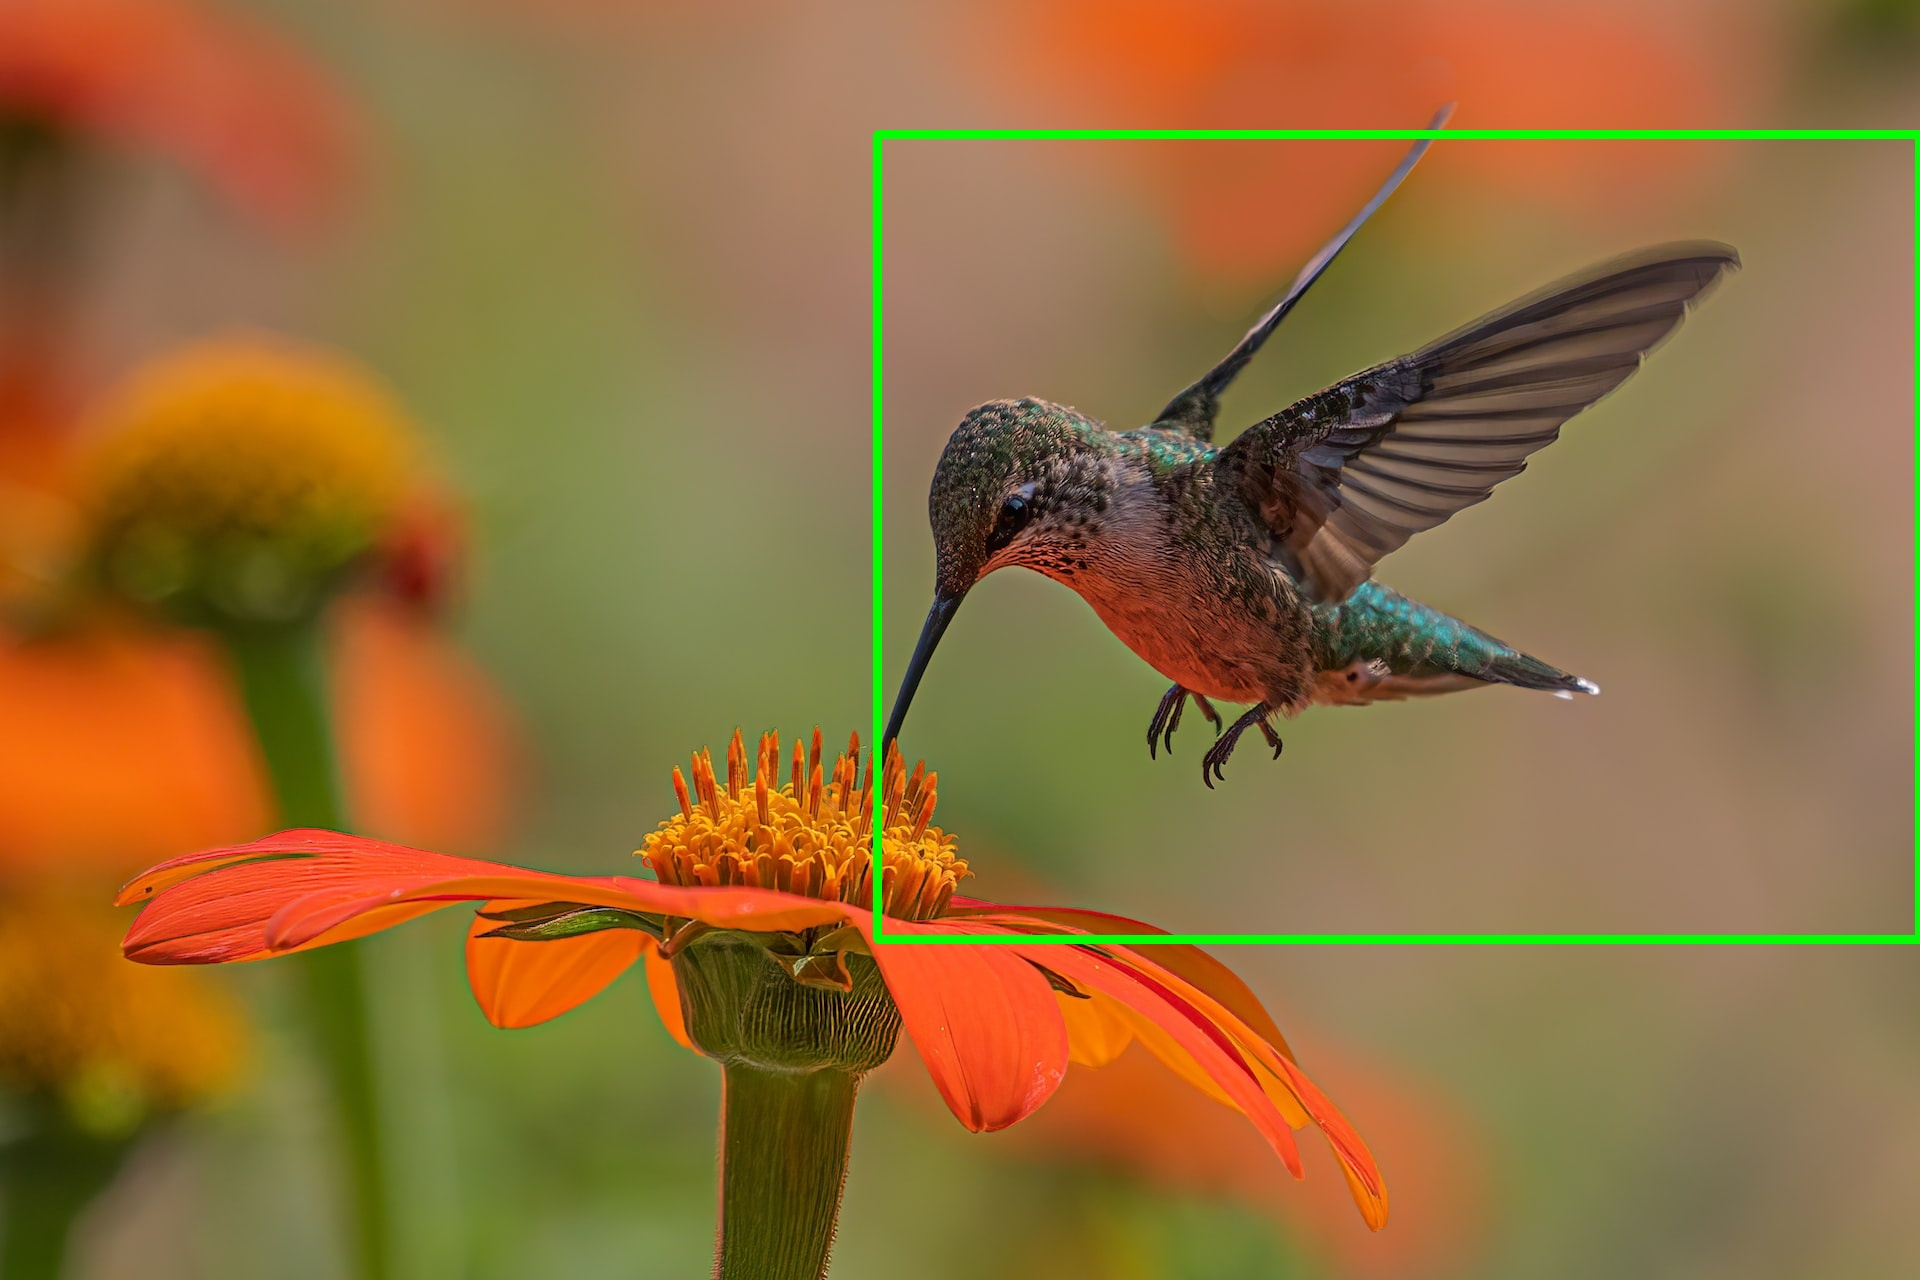
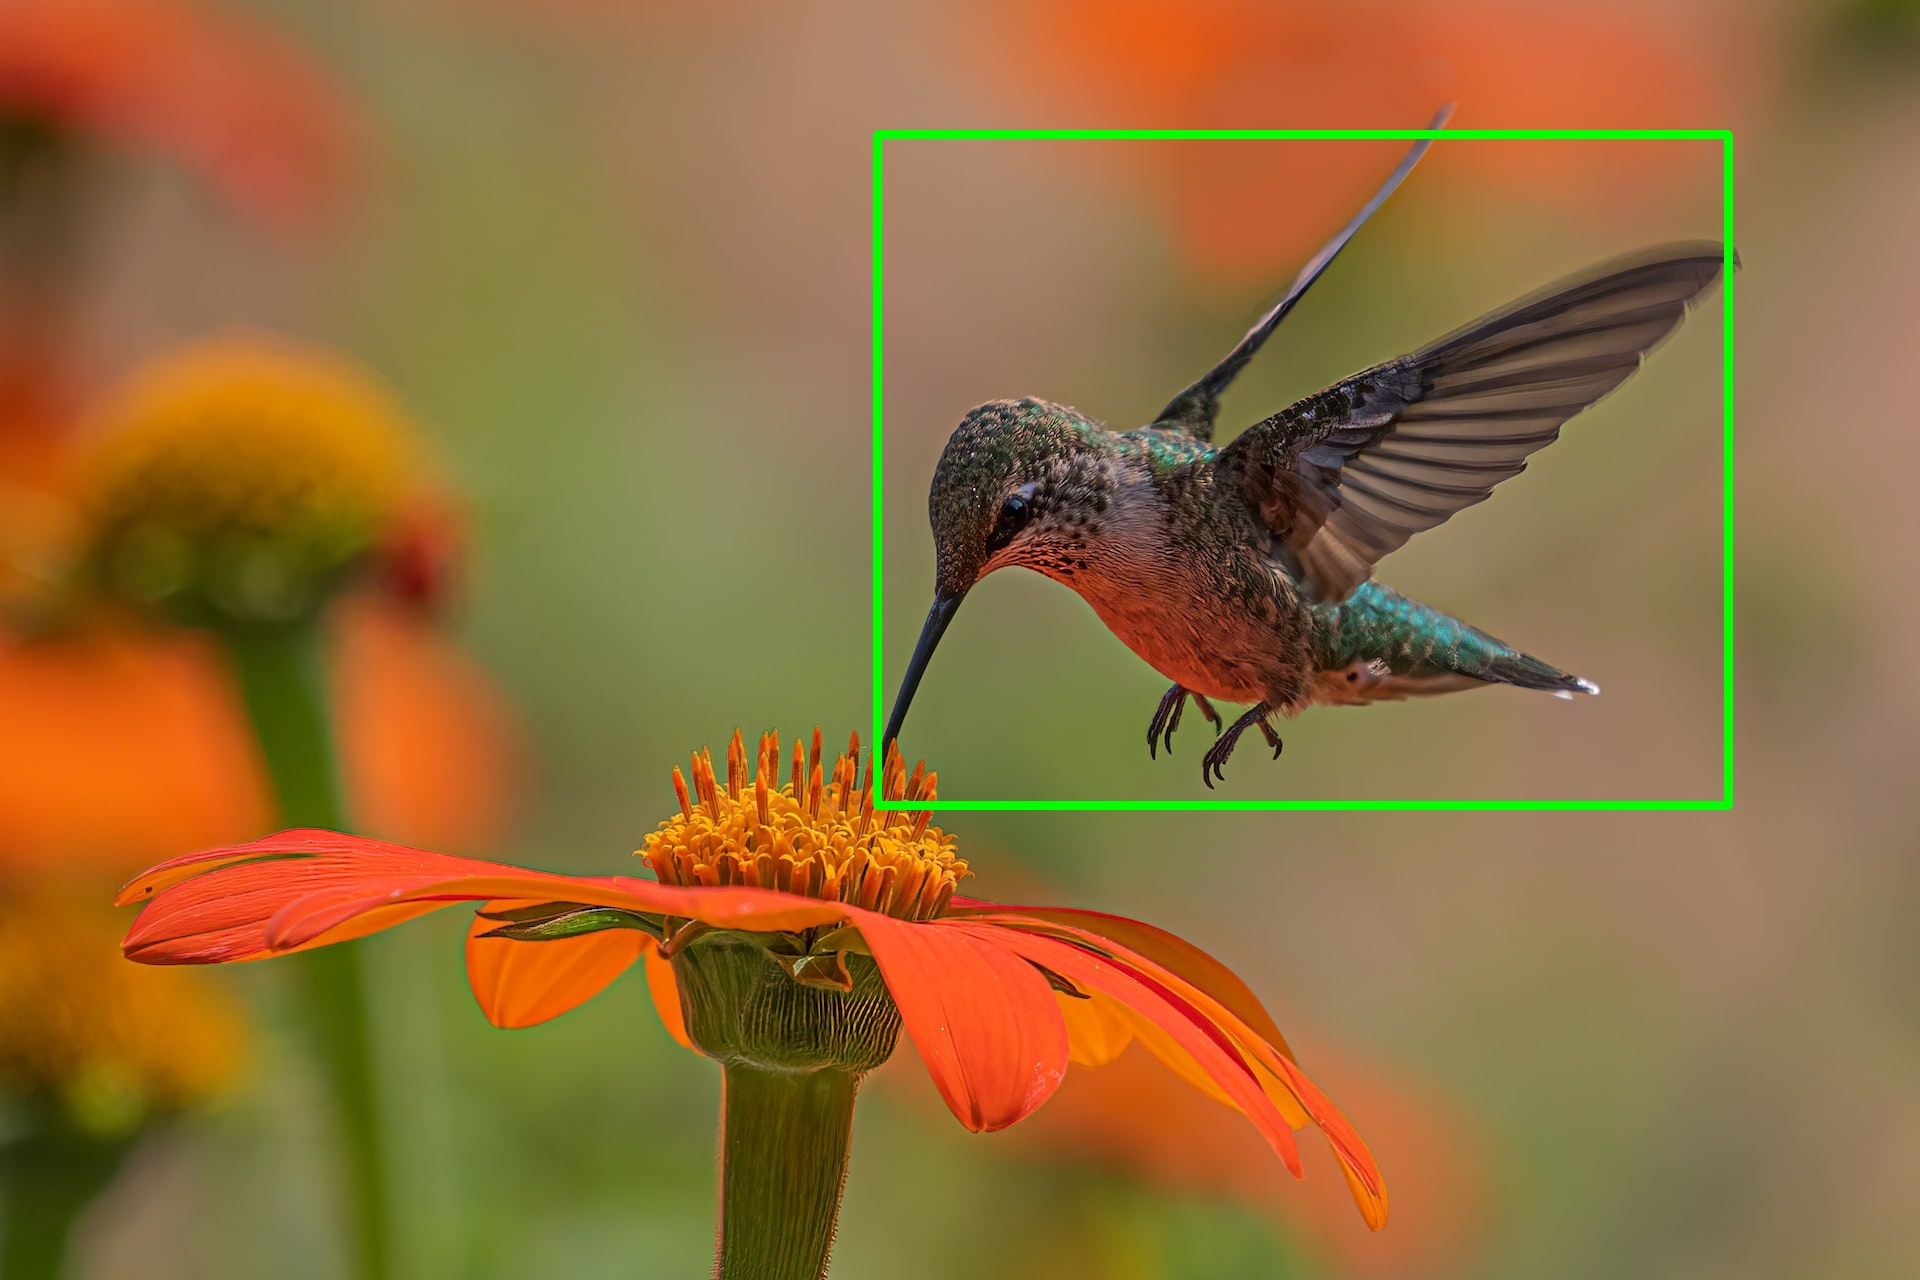
boxes preprocessing bug fix

Changed region(s): [[0.4375, 0.0938, 1.0, 0.75], [0.9688, 0.4688, 1.0, 0.5], [0.9688, 0.25, 1.0, 0.2812]]

diff --git a/src/main.py b/src/main.py
@@ -82,7 +82,7 @@ class OWLViTModel(sly.nn.inference.ObjectDetection):
                 if score >= confidence_threshold:
                     box = box.cpu().detach().numpy()
                     # convert box coordinates from COCO to Supervisely format
-                    box = [box[1], box[0], box[1] + box[3], box[0] + box[2]]
+                    box = [box[1], box[0], box[3], box[2]]
                     predictions.append(
                         sly.nn.PredictionBBox(
                             class_name=self.class_names[0], bbox_tlbr=box, score=score.item()
